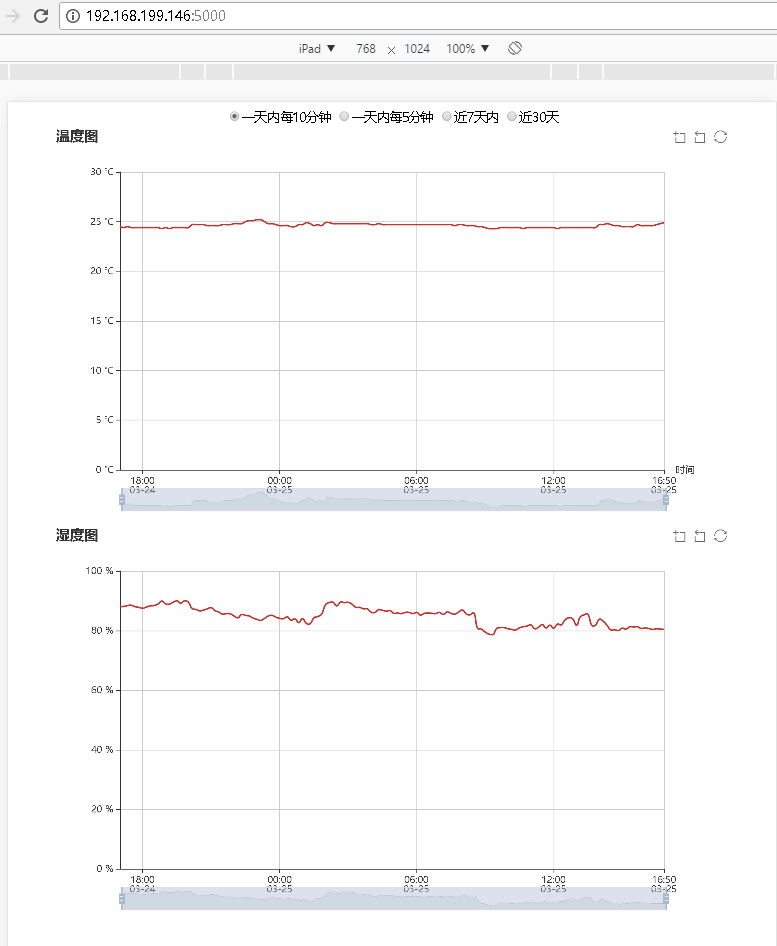
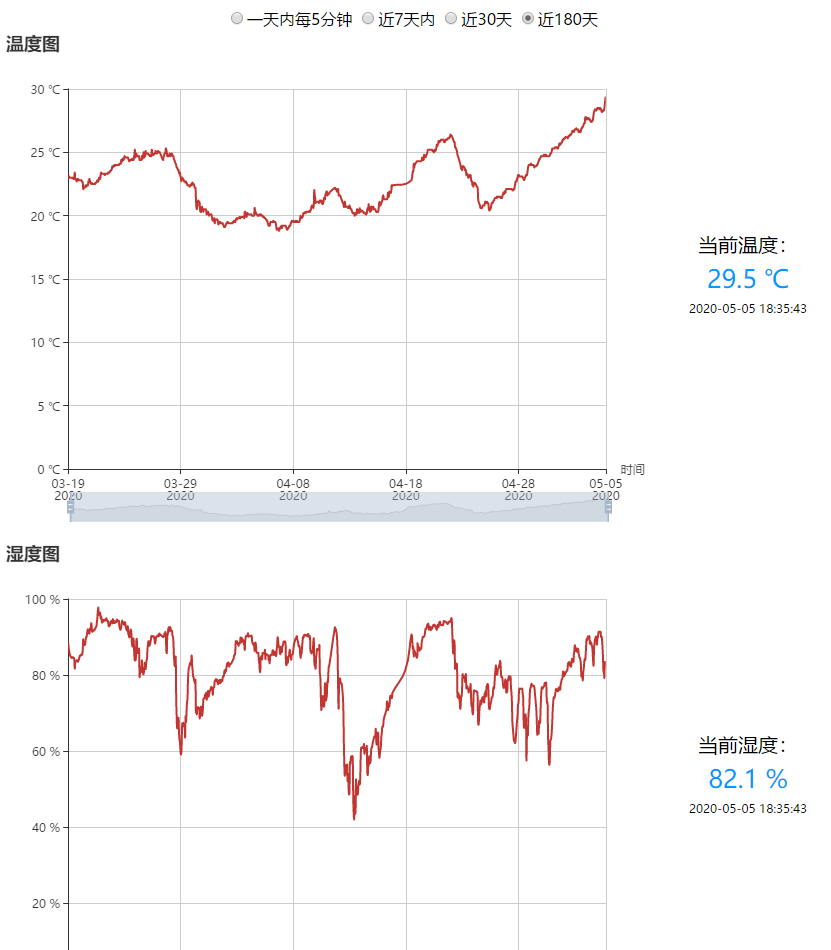
统计图添加显示当前温湿度，每20秒请求一次后台刷新

diff --git a/templates/statistics_template.html b/templates/statistics_template.html
@@ -3,10 +3,10 @@
 <head>
     <meta charset="utf-8">
     <title>树莓派温湿度监控</title>
-
-    <!-- 引入 echarts.js -->
-    <script src="http://libs.baidu.com/jquery/1.7.2/jquery.min.js"></script>
+    
     <!-- 引入jquery.js -->
+    <script src="http://libs.baidu.com/jquery/1.7.2/jquery.min.js"></script>
+    <!-- 引入 echarts.js -->
     <script src="https://cdn.bootcss.com/echarts/4.1.0.rc2/echarts.min.js"></script>
 
 </head>
@@ -14,19 +14,58 @@
 <body style="text-align:center;">
 
 <div style="margin:0 auto">
-	<input type="radio" value="1" name="tRadio"  id="tRadio1"  checked="checked"/>一天内每10分钟
-	<input type="radio" value="2" name="tRadio" id="tRadio2"/>一天内每5分钟
+	<!-- <input type="radio" value="1" name="tRadio"  id="tRadio1"  checked="checked"/>一天内每10分钟 -->
+	<input type="radio" value="2" name="tRadio" id="tRadio2"  checked="checked"/>一天内每5分钟
 	<input type="radio" value="3" name="tRadio" id="tRadio3"/>近7天内
 	<input type="radio" value="4" name="tRadio" id="tRadio4"/>近30天
+	<input type="radio" value="5" name="tRadio" id="tRadio4"/>近180天
 </div>
 
-<!-- 为ECharts准备一个具备大小（宽高）的Dom -->
-<div id="mainT" style="width: 90%;height:500px;margin: 0 auto;"></div>
 
-<!-- 为ECharts准备一个具备大小（宽高）的Dom -->
-<div id="mainH" style="width: 90%;height:500px;margin: 10px auto;"></div>
+<div>
+    <!-- 为ECharts准备一个具备大小（宽高）的Dom -->
+    <div id="mainT" style="width: calc(100% - 150px);height:500px;margin: 0 auto;float: left;"></div>
+    <div style="float: right;width:150px;margin-top: 200px;">
+        <div style="height:30px;line-height: 30px;text-align: center;font-size:20px;">当前温度：</div>
+        <div id="now_temp" style="height:40px;line-height: 40px;text-align: center;font-size:25px;color:#0099FF;">- ℃</div>
+        <div id="now_time1" style="height:18px;line-height: 18px;text-align: center;font-size:10px;">----</div>
+    </div>
+</div>
+<div>
+    <!-- 为ECharts准备一个具备大小（宽高）的Dom -->
+    <div id="mainH" style="width: calc(100% - 150px);height:500px;margin: 10px auto;float: left;"></div>
+    <div style="float: right;width:150px;margin-top: 200px;">
+        <div style="height:30px;line-height: 30px;text-align: center;font-size:20px;">当前湿度：</div>
+        <div id="now_hum" style="height:40px;line-height: 40px;text-align: center;font-size:25px;color:#0099FF;">- %</div>
+        <div  id="now_time2" style="height:18px;line-height: 18px;text-align: center;font-size:10px;">----</div>
+    </div>
+</div>
 
 <script type="text/javascript">
+    // 对Date的扩展，将 Date 转化为指定格式的String
+    // 月(M)、日(d)、小时(h)、分(m)、秒(s)、季度(q) 可以用 1-2 个占位符， 
+    // 年(y)可以用 1-4 个占位符，毫秒(S)只能用 1 个占位符(是 1-3 位的数字) 
+    // 例子： 
+    // (new Date()).Format("yyyy-MM-dd hh:mm:ss.S") ==> 2006-07-02 08:09:04.423 
+    // (new Date()).Format("yyyy-M-d h:m:s.S")      ==> 2006-7-2 8:9:4.18 
+
+    Date.prototype.Format = function (fmt) { //author: meizz 
+
+       var o = {
+           "M+": this.getMonth() + 1, //月份 
+           "d+": this.getDate(), //日 
+           "h+": this.getHours(), //小时 
+           "m+": this.getMinutes(), //分 
+           "s+": this.getSeconds(), //秒 
+           "q+": Math.floor((this.getMonth() + 3) / 3), //季度 
+           "S": this.getMilliseconds() //毫秒 
+       };
+       if (/(y+)/.test(fmt)) fmt = fmt.replace(RegExp.$1, (this.getFullYear() + "").substr(4 - RegExp.$1.length));
+       for (var k in o)
+       if (new RegExp("(" + k + ")").test(fmt)) fmt = fmt.replace(RegExp.$1, (RegExp.$1.length == 1) ? (o[k]) : (("00" + o[k]).substr(("" + o[k]).length)));
+       return fmt;
+
+    }
 
 	 $(function(){
 		$(":radio").click(function(){
@@ -47,6 +86,9 @@
 				getData(60,1440*30);
 			}
 			
+			if(5==checkValue){
+				getData(60,1440*180);
+			}
 		});
 	});
 
@@ -65,20 +107,41 @@
 		 dataZoomSelectActive: true // activate or inactivate          
 	});
 
-    // 发送ajax请求，从后台获取json数据
+    
     $(document).ready(function () {
-       getData(10,1440);
+       setNowHT();  
+       getData(5,1440); // 发送ajax请求，从后台获取json数据
        //console.log(app.xTime);
        //console.log(app.yTvalues);
        //console.log(app.yHvalues)
+       var t2 = window.setInterval(function() {
+            setNowHT();
+       },20000)
+       //window.clearInterval(t2)  // 去除定时器
+
     });
+    
+    function setNowHT() {
+         $.ajax({
+            url:'/getNowHT',
+            type:'POST',
+            dataType:'json',
+            success:function(data) {
+                console.log(data);
+                 $("#now_temp").text(data.temperature + " ℃");
+                 $("#now_hum").text(data.humidity + " %");
+                 $("#now_time1").text(new Date().Format("yyyy-MM-dd hh:mm:ss"));
+                 $("#now_time2").text(new Date().Format("yyyy-MM-dd hh:mm:ss"));
+            }
+         });	
+	}			
 
     function getData(range_args,time_args) {
          $.ajax({
             url:'/getData',
             data:{range:range_args,time:time_args},	//range 每多少分钟取一个点， time：最近多少范围内的。
             type:'POST',
-            async:false,
+            //async:false,
             dataType:'json',
             success:function(data) {
 				console.log(data);
@@ -113,6 +176,7 @@
 						}
 					},          
 					//用于添加框选缩放功能
+					/*
 					toolbox: {                   
 						show: true,                  
 						feature:{                     
@@ -122,7 +186,7 @@
 							},                    
 							restore: {},                   
 						}            
-					},               
+					},   */            
 					dataZoom: 
 					[
 						{type: 'inside'},        //用于添加滚轮缩放
@@ -161,6 +225,7 @@
 						}
 					},          
 					//用于添加框选缩放功能
+					/*
 					toolbox: {                   
 						show: true,                  
 						feature:{                     
@@ -170,7 +235,7 @@
 							},                    
 							restore: {},                   
 						}            
-					},               
+					},       */          
 					dataZoom: 
 					[
 						{type: 'inside'},        //用于添加滚轮缩放

diff --git a/Server.py b/Server.py
@@ -3,6 +3,7 @@ from flask import Flask,render_template, url_for
 import json
 from flask import request
 import time
+import Adafruit_DHT
 
 # 生成Flask实例
 app = Flask(__name__)
@@ -21,6 +22,22 @@ def get_data():
         time = request.args.get("time")
         range = request.args.get("range")
     return(get_jsondata(int(range),int(time)))
+
+# /getNowHT路由。 获取当前温湿度
+@app.route('/getNowHT',methods=["GET", "POST"])
+def get_now_ht():
+    sensor = Adafruit_DHT.DHT22
+    pin = 4 #GPIO4
+    humidity, temperature = Adafruit_DHT.read_retry(sensor, pin)
+    humidity = '{0:0.1f}'.format(humidity)
+    temperature = '{0:0.1f}'.format(temperature)
+    # 整理成json格式
+    jsonData = {}
+    jsonData['temperature'] = temperature
+    jsonData['humidity'] = humidity
+
+    result = json.dumps(jsonData)
+    return(result)
 
 def conn_db(): 
     con = pymysql.connect(
